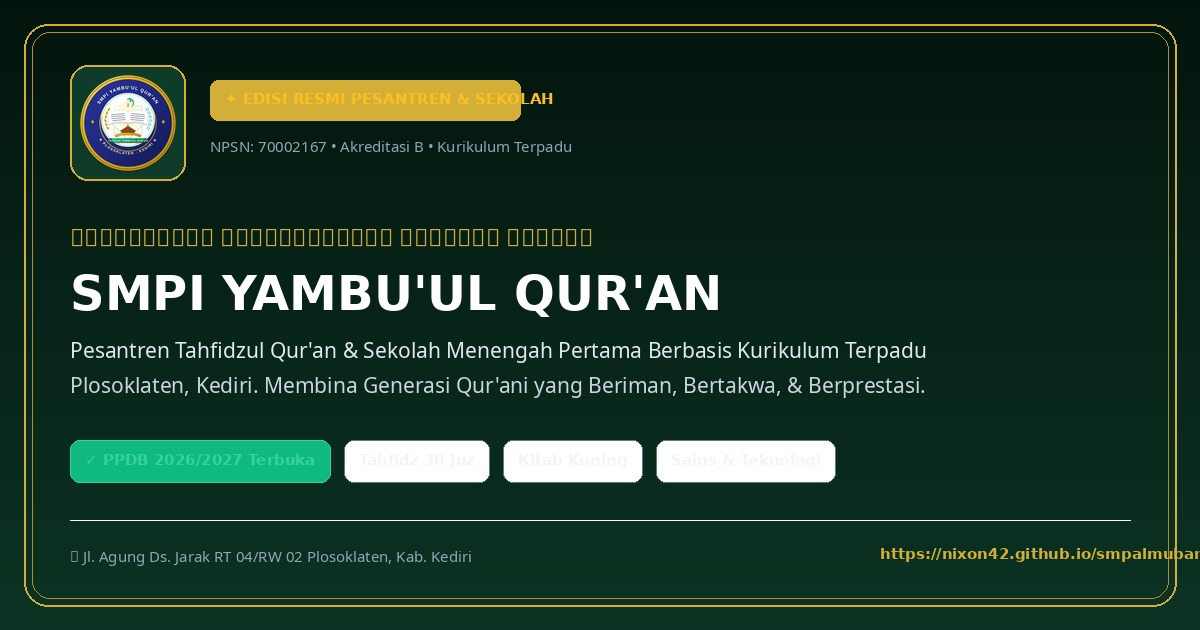
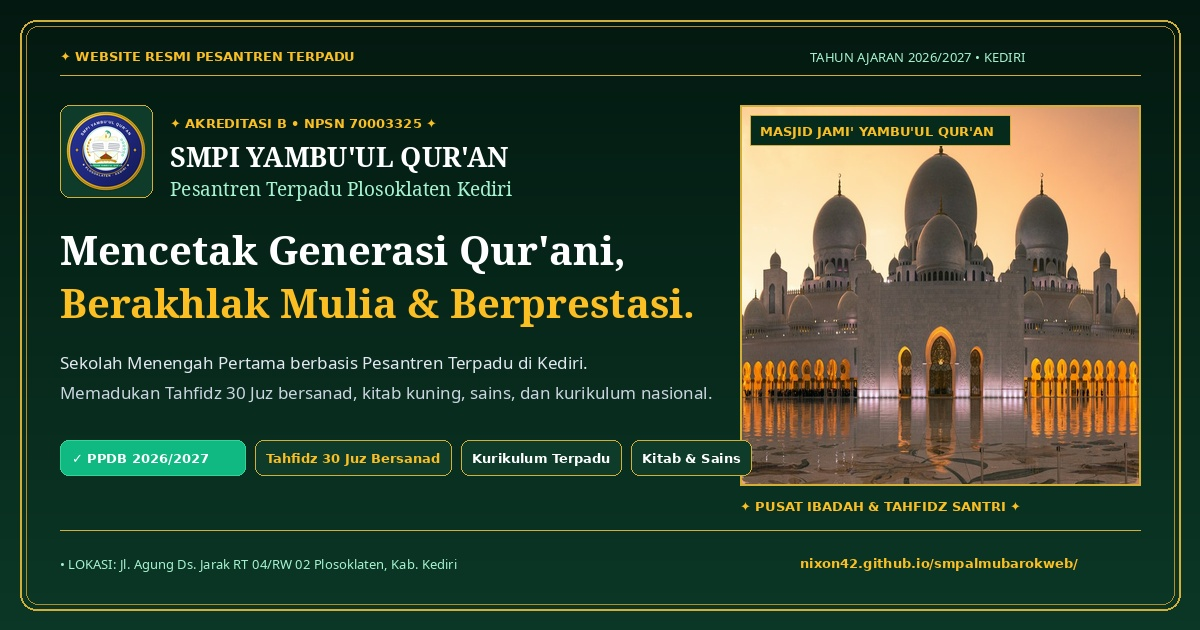
feat(seo): fix v1 meta tags and redesign og-v1.jpg and og-v3.jpg with high-contrast authentic school assets

diff --git a/index.html b/index.html
@@ -50,7 +50,7 @@
 <!-- SEO & WHATSAPP SOCIAL SHARE META TAGS (V1: HERITAGE ISLAMIC) -->
 <!-- ========================================== -->
 <title>SMPI Yambu'ul Qur'an — Pesantren Terpadu & Tahfidzul Qur'an Kediri</title>
-<meta name="description" content="Pendidikan Islam modern berbasis Tahfidzul Qur'an & kurikulum nasional terpadu di Plosoklaten Kediri. Mencetak generasi Qur'ani berakhlak mulia. Info PPDB 2026/2027.">
+<meta name="description" content="Website Resmi SMPI Yambu'ul Qur'an Plosoklaten Kediri: Sekolah Menengah Pertama berbasis Pesantren Terpadu, Program Tahfidzul Qur'an 30 Juz Bersanad, Kurikulum Nasional Terpadu, Dewan Asatidz, & Info PPDB 2026/2027.">
 <meta name="keywords" content="SMPI YAMBU'UL QUR'AN, SMPI Yaqu, SMP Islam Yambu'ul Qur'an, PPDB SMP Kediri, SMP Plosoklaten, Sekolah Tahfidz Kediri, Pesantren Kediri">
 <meta name="author" content="SMPI Yambu'ul Qur'an">
 <meta name="robots" content="index, follow">
@@ -62,10 +62,10 @@
 <meta property="og:site_name" content="SMPI Yambu'ul Qur'an">
 <meta property="og:locale" content="id_ID">
 <meta property="og:title" content="SMPI Yambu'ul Qur'an — Pesantren Terpadu & Tahfidzul Qur'an Kediri">
-<meta property="og:description" content="Pendidikan Islam modern berbasis Tahfidzul Qur'an & kurikulum nasional terpadu di Plosoklaten Kediri. Mencetak generasi Qur'ani berakhlak mulia. Info PPDB 2026/2027.">
+<meta property="og:description" content="Website Resmi SMPI Yambu'ul Qur'an Plosoklaten Kediri: Sekolah Menengah Pertama berbasis Pesantren Terpadu, Program Tahfidzul Qur'an 30 Juz Bersanad, Kurikulum Nasional Terpadu, Dewan Asatidz, & Info PPDB 2026/2027.">
 <meta property="og:url" content="https://nixon42.github.io/smpalmubarokweb/">
-<meta property="og:image" content="https://nixon42.github.io/smpalmubarokweb/og-v1.jpg">
-<meta property="og:image:secure_url" content="https://nixon42.github.io/smpalmubarokweb/og-v1.jpg">
+<meta property="og:image" content="https://nixon42.github.io/smpalmubarokweb/og-v1.jpg?v=2">
+<meta property="og:image:secure_url" content="https://nixon42.github.io/smpalmubarokweb/og-v1.jpg?v=2">
 <meta property="og:image:type" content="image/jpeg">
 <meta property="og:image:width" content="1200">
 <meta property="og:image:height" content="630">
@@ -75,8 +75,8 @@
 <meta name="twitter:card" content="summary_large_image">
 <meta name="twitter:url" content="https://nixon42.github.io/smpalmubarokweb/">
 <meta name="twitter:title" content="SMPI Yambu'ul Qur'an — Pesantren Terpadu & Tahfidzul Qur'an Kediri">
-<meta name="twitter:description" content="Pendidikan Islam modern berbasis Tahfidzul Qur'an & kurikulum nasional terpadu di Plosoklaten Kediri. Mencetak generasi Qur'ani berakhlak mulia. Info PPDB 2026/2027.">
-<meta name="twitter:image" content="https://nixon42.github.io/smpalmubarokweb/og-v1.jpg">
+<meta name="twitter:description" content="Website Resmi SMPI Yambu'ul Qur'an Plosoklaten Kediri: Sekolah Menengah Pertama berbasis Pesantren Terpadu, Program Tahfidzul Qur'an 30 Juz Bersanad, Kurikulum Nasional Terpadu, Dewan Asatidz, & Info PPDB 2026/2027.">
+<meta name="twitter:image" content="https://nixon42.github.io/smpalmubarokweb/og-v1.jpg?v=2">
 
 <script type="application/ld+json">
 {
@@ -86,7 +86,7 @@
   "alternateName" : "SMP Islam Yambu'ul Qur'an",
   "url" : "https://nixon42.github.io/smpalmubarokweb/",
   "logo" : "https://nixon42.github.io/smpalmubarokweb/logo.png",
-  "image" : "https://nixon42.github.io/smpalmubarokweb/og-v1.jpg",
+  "image" : "https://nixon42.github.io/smpalmubarokweb/og-v1.jpg?v=2",
   "description" : "Pendidikan Islam modern berbasis Tahfidzul Qur'an & kurikulum nasional terpadu di Plosoklaten Kediri.",
   "address" : {
     "@type": "PostalAddress",
@@ -4109,6 +4109,8 @@ let heroSig_ = '';
 
 function renderHeroSlider() {
   const wrap = document.getElementById('hero-slides');
+  if (!wrap) return;
+  if (!wrap) return;
   if (!wrap) return;
   if (!wrap) return;
   if (!wrap) return;

diff --git a/v1.html b/v1.html
@@ -50,7 +50,7 @@
 <!-- SEO & WHATSAPP SOCIAL SHARE META TAGS (V1: HERITAGE ISLAMIC) -->
 <!-- ========================================== -->
 <title>SMPI Yambu'ul Qur'an — Pesantren Terpadu & Tahfidzul Qur'an Kediri</title>
-<meta name="description" content="Pendidikan Islam modern berbasis Tahfidzul Qur'an & kurikulum nasional terpadu di Plosoklaten Kediri. Mencetak generasi Qur'ani berakhlak mulia. Info PPDB 2026/2027.">
+<meta name="description" content="Website Resmi SMPI Yambu'ul Qur'an Plosoklaten Kediri: Sekolah Menengah Pertama berbasis Pesantren Terpadu, Program Tahfidzul Qur'an 30 Juz Bersanad, Kurikulum Nasional Terpadu, Dewan Asatidz, & Info PPDB 2026/2027.">
 <meta name="keywords" content="SMPI YAMBU'UL QUR'AN, SMPI Yaqu, SMP Islam Yambu'ul Qur'an, PPDB SMP Kediri, SMP Plosoklaten, Sekolah Tahfidz Kediri, Pesantren Kediri">
 <meta name="author" content="SMPI Yambu'ul Qur'an">
 <meta name="robots" content="index, follow">
@@ -62,10 +62,10 @@
 <meta property="og:site_name" content="SMPI Yambu'ul Qur'an">
 <meta property="og:locale" content="id_ID">
 <meta property="og:title" content="SMPI Yambu'ul Qur'an — Pesantren Terpadu & Tahfidzul Qur'an Kediri">
-<meta property="og:description" content="Pendidikan Islam modern berbasis Tahfidzul Qur'an & kurikulum nasional terpadu di Plosoklaten Kediri. Mencetak generasi Qur'ani berakhlak mulia. Info PPDB 2026/2027.">
+<meta property="og:description" content="Website Resmi SMPI Yambu'ul Qur'an Plosoklaten Kediri: Sekolah Menengah Pertama berbasis Pesantren Terpadu, Program Tahfidzul Qur'an 30 Juz Bersanad, Kurikulum Nasional Terpadu, Dewan Asatidz, & Info PPDB 2026/2027.">
 <meta property="og:url" content="https://nixon42.github.io/smpalmubarokweb/">
-<meta property="og:image" content="https://nixon42.github.io/smpalmubarokweb/og-v1.jpg">
-<meta property="og:image:secure_url" content="https://nixon42.github.io/smpalmubarokweb/og-v1.jpg">
+<meta property="og:image" content="https://nixon42.github.io/smpalmubarokweb/og-v1.jpg?v=2">
+<meta property="og:image:secure_url" content="https://nixon42.github.io/smpalmubarokweb/og-v1.jpg?v=2">
 <meta property="og:image:type" content="image/jpeg">
 <meta property="og:image:width" content="1200">
 <meta property="og:image:height" content="630">
@@ -75,8 +75,8 @@
 <meta name="twitter:card" content="summary_large_image">
 <meta name="twitter:url" content="https://nixon42.github.io/smpalmubarokweb/">
 <meta name="twitter:title" content="SMPI Yambu'ul Qur'an — Pesantren Terpadu & Tahfidzul Qur'an Kediri">
-<meta name="twitter:description" content="Pendidikan Islam modern berbasis Tahfidzul Qur'an & kurikulum nasional terpadu di Plosoklaten Kediri. Mencetak generasi Qur'ani berakhlak mulia. Info PPDB 2026/2027.">
-<meta name="twitter:image" content="https://nixon42.github.io/smpalmubarokweb/og-v1.jpg">
+<meta name="twitter:description" content="Website Resmi SMPI Yambu'ul Qur'an Plosoklaten Kediri: Sekolah Menengah Pertama berbasis Pesantren Terpadu, Program Tahfidzul Qur'an 30 Juz Bersanad, Kurikulum Nasional Terpadu, Dewan Asatidz, & Info PPDB 2026/2027.">
+<meta name="twitter:image" content="https://nixon42.github.io/smpalmubarokweb/og-v1.jpg?v=2">
 
 <script type="application/ld+json">
 {
@@ -86,7 +86,7 @@
   "alternateName" : "SMP Islam Yambu'ul Qur'an",
   "url" : "https://nixon42.github.io/smpalmubarokweb/",
   "logo" : "https://nixon42.github.io/smpalmubarokweb/logo.png",
-  "image" : "https://nixon42.github.io/smpalmubarokweb/og-v1.jpg",
+  "image" : "https://nixon42.github.io/smpalmubarokweb/og-v1.jpg?v=2",
   "description" : "Pendidikan Islam modern berbasis Tahfidzul Qur'an & kurikulum nasional terpadu di Plosoklaten Kediri.",
   "address" : {
     "@type": "PostalAddress",
@@ -4109,6 +4109,8 @@ let heroSig_ = '';
 
 function renderHeroSlider() {
   const wrap = document.getElementById('hero-slides');
+  if (!wrap) return;
+  if (!wrap) return;
   if (!wrap) return;
   if (!wrap) return;
   if (!wrap) return;

diff --git a/v3.html b/v3.html
@@ -64,8 +64,8 @@
 <meta property="og:title" content="SMPI Yambu'ul Qur'an — Sekolah Menengah Pertama Berbasis Pesantren Tahfidz Kediri">
 <meta property="og:description" content="Membentuk generasi Qur'ani unggul, berakhlak mulia, dan berwawasan global. Pendaftaran Santri Baru (PPDB 2026/2027) dibuka.">
 <meta property="og:url" content="https://nixon42.github.io/smpalmubarokweb/v3.html">
-<meta property="og:image" content="https://nixon42.github.io/smpalmubarokweb/og-v3.jpg">
-<meta property="og:image:secure_url" content="https://nixon42.github.io/smpalmubarokweb/og-v3.jpg">
+<meta property="og:image" content="https://nixon42.github.io/smpalmubarokweb/og-v3.jpg?v=2">
+<meta property="og:image:secure_url" content="https://nixon42.github.io/smpalmubarokweb/og-v3.jpg?v=2">
 <meta property="og:image:type" content="image/jpeg">
 <meta property="og:image:width" content="1200">
 <meta property="og:image:height" content="630">
@@ -76,7 +76,7 @@
 <meta name="twitter:url" content="https://nixon42.github.io/smpalmubarokweb/v3.html">
 <meta name="twitter:title" content="SMPI Yambu'ul Qur'an — Sekolah Menengah Pertama Berbasis Pesantren Tahfidz Kediri">
 <meta name="twitter:description" content="Membentuk generasi Qur'ani unggul, berakhlak mulia, dan berwawasan global. Pendaftaran Santri Baru (PPDB 2026/2027) dibuka.">
-<meta name="twitter:image" content="https://nixon42.github.io/smpalmubarokweb/og-v3.jpg">
+<meta name="twitter:image" content="https://nixon42.github.io/smpalmubarokweb/og-v3.jpg?v=2">
 
 <script type="application/ld+json">
 {
@@ -86,7 +86,7 @@
   "alternateName" : "SMP Islam Yambu'ul Qur'an",
   "url" : "https://nixon42.github.io/smpalmubarokweb/v3.html",
   "logo" : "https://nixon42.github.io/smpalmubarokweb/logo.png",
-  "image" : "https://nixon42.github.io/smpalmubarokweb/og-v3.jpg",
+  "image" : "https://nixon42.github.io/smpalmubarokweb/og-v3.jpg?v=2",
   "description" : "Lembaga pendidikan formal tingkat menengah pertama berbasis pesantren tahfidzul Qur'an terpadu di Plosoklaten Kediri.",
   "address" : {
     "@type": "PostalAddress",
@@ -4583,6 +4583,8 @@ let heroSig_ = '';
 
 function renderHeroSlider() {
   const wrap = document.getElementById('hero-slides');
+  if (!wrap) return;
+  if (!wrap) return;
   if (!wrap) return;
   if (!wrap) return;
   if (!wrap) return;

diff --git a/v2.html b/v2.html
@@ -4826,6 +4826,8 @@ function renderHeroSlider() {
   if (!wrap) return;
   if (!wrap) return;
   if (!wrap) return;
+  if (!wrap) return;
+  if (!wrap) return;
   const dotsWrap = document.getElementById('hero-dots');
   if (heroSlideTimer) { clearInterval(heroSlideTimer); heroSlideTimer = null; }
 
